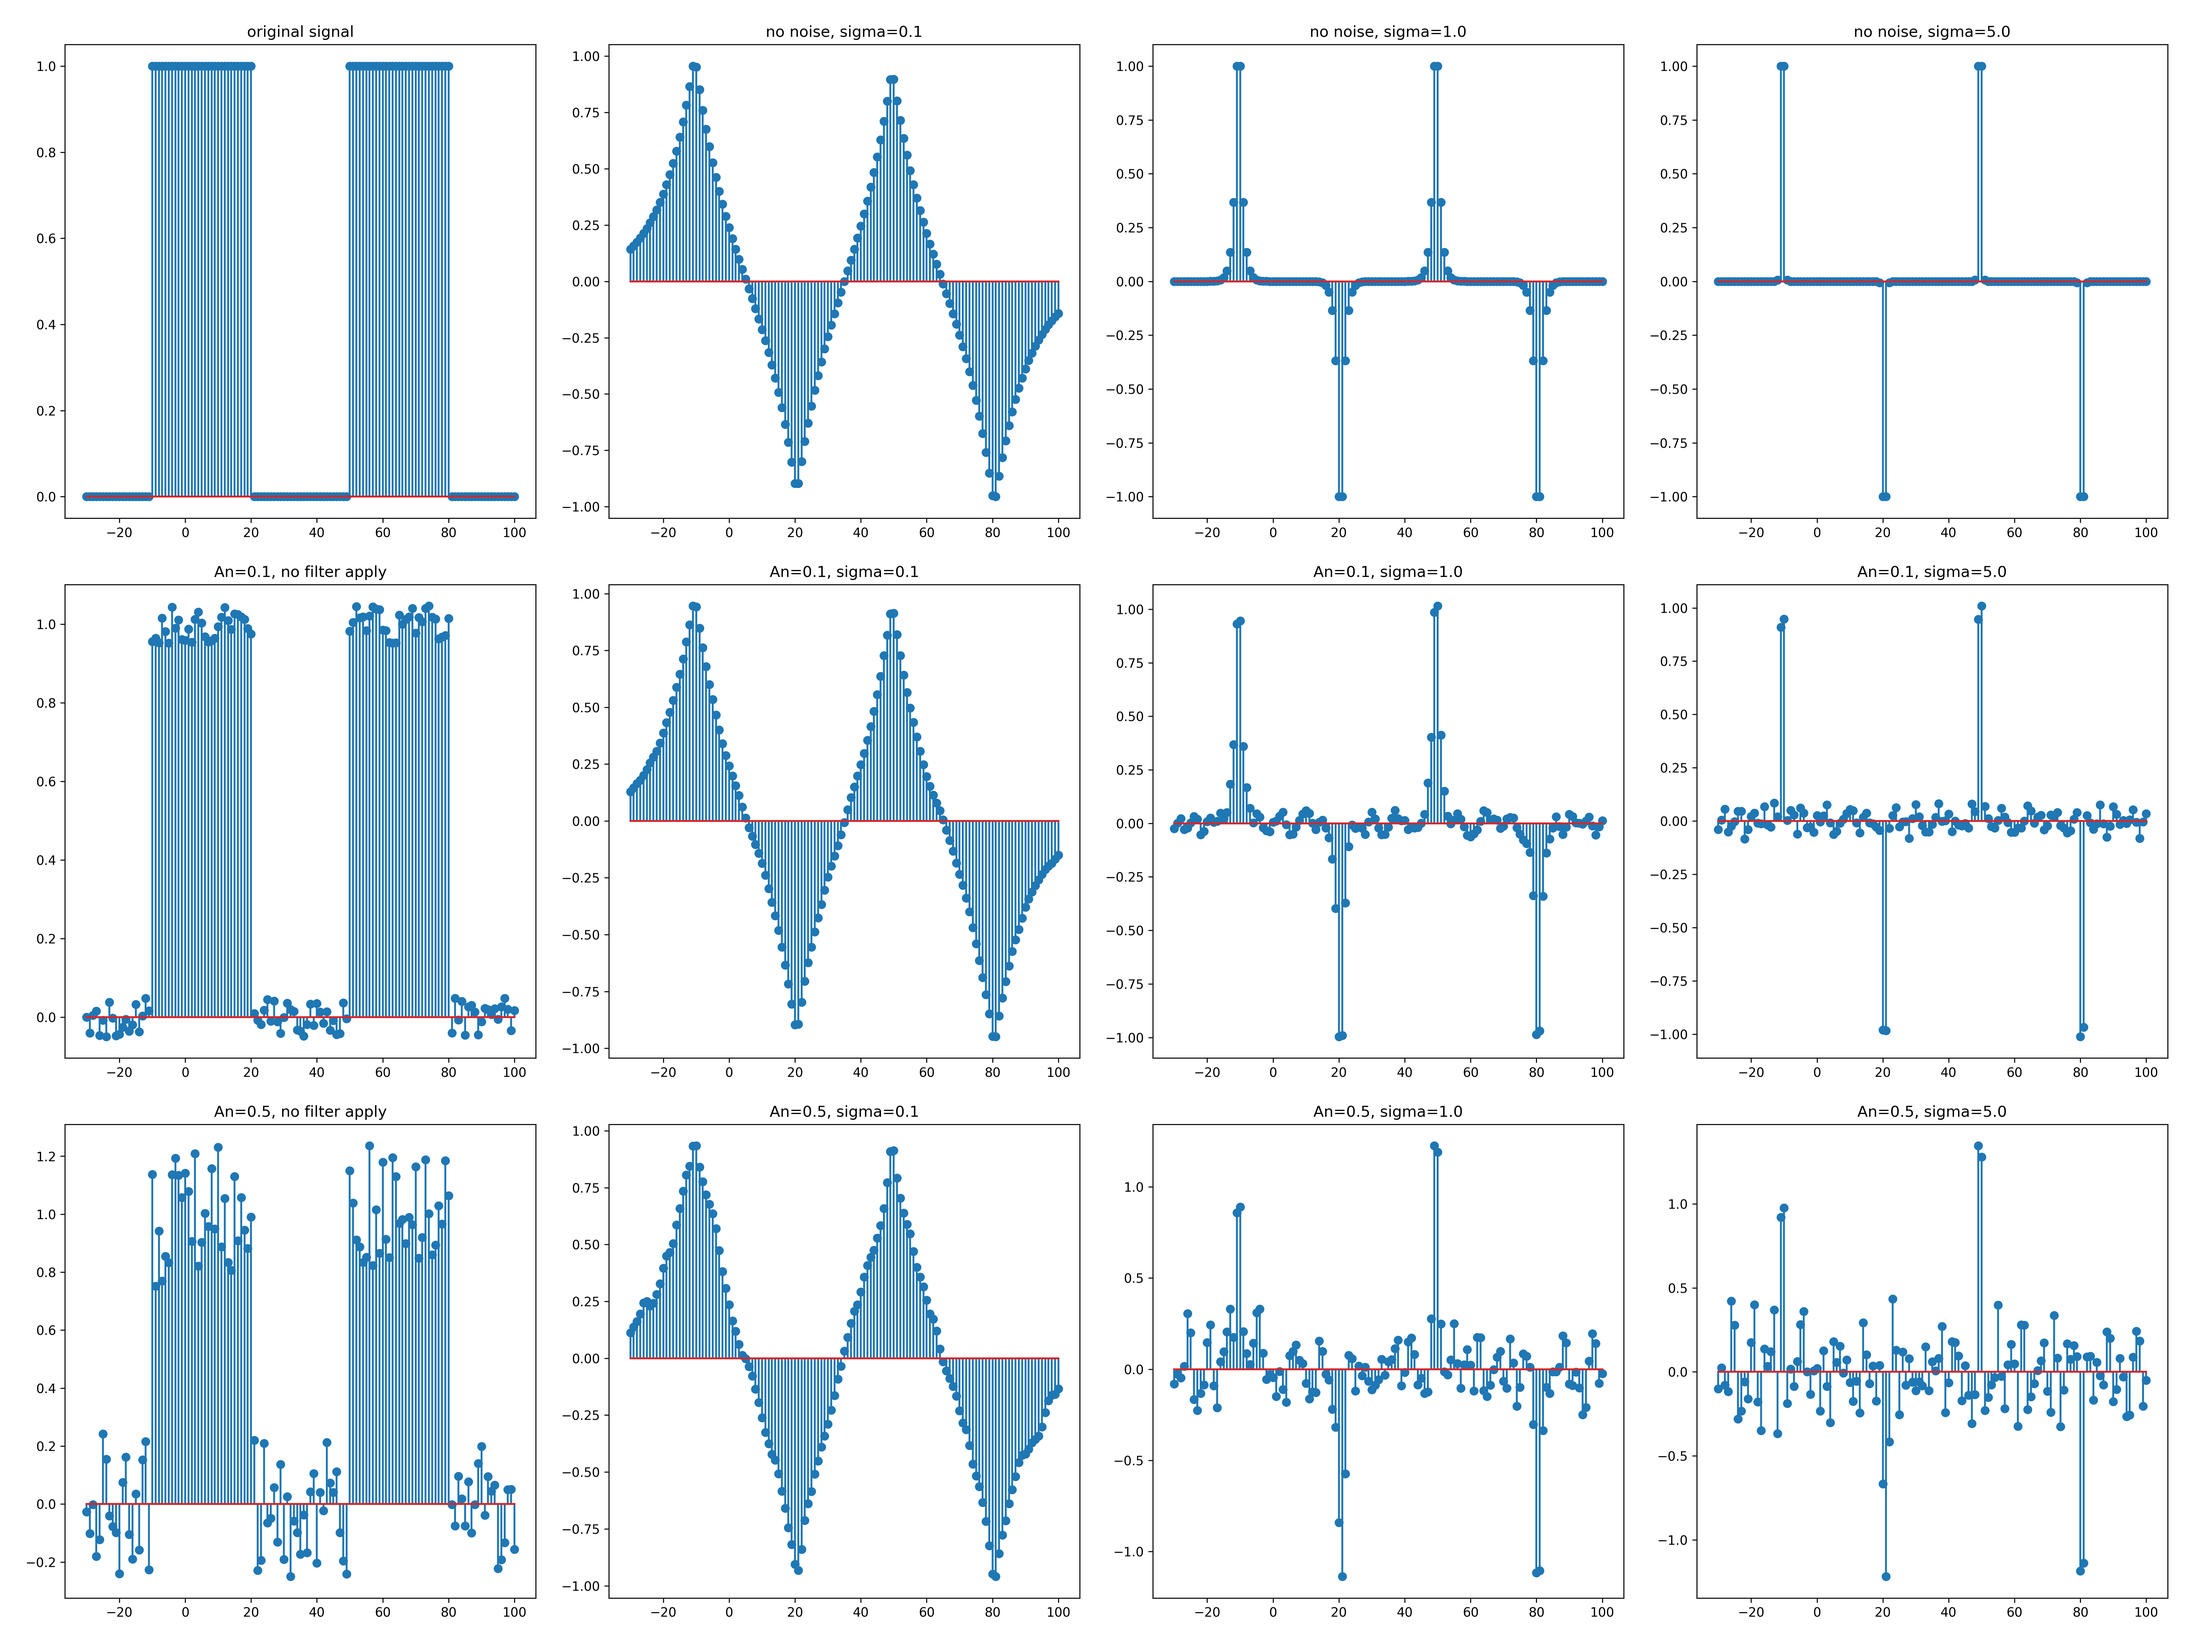
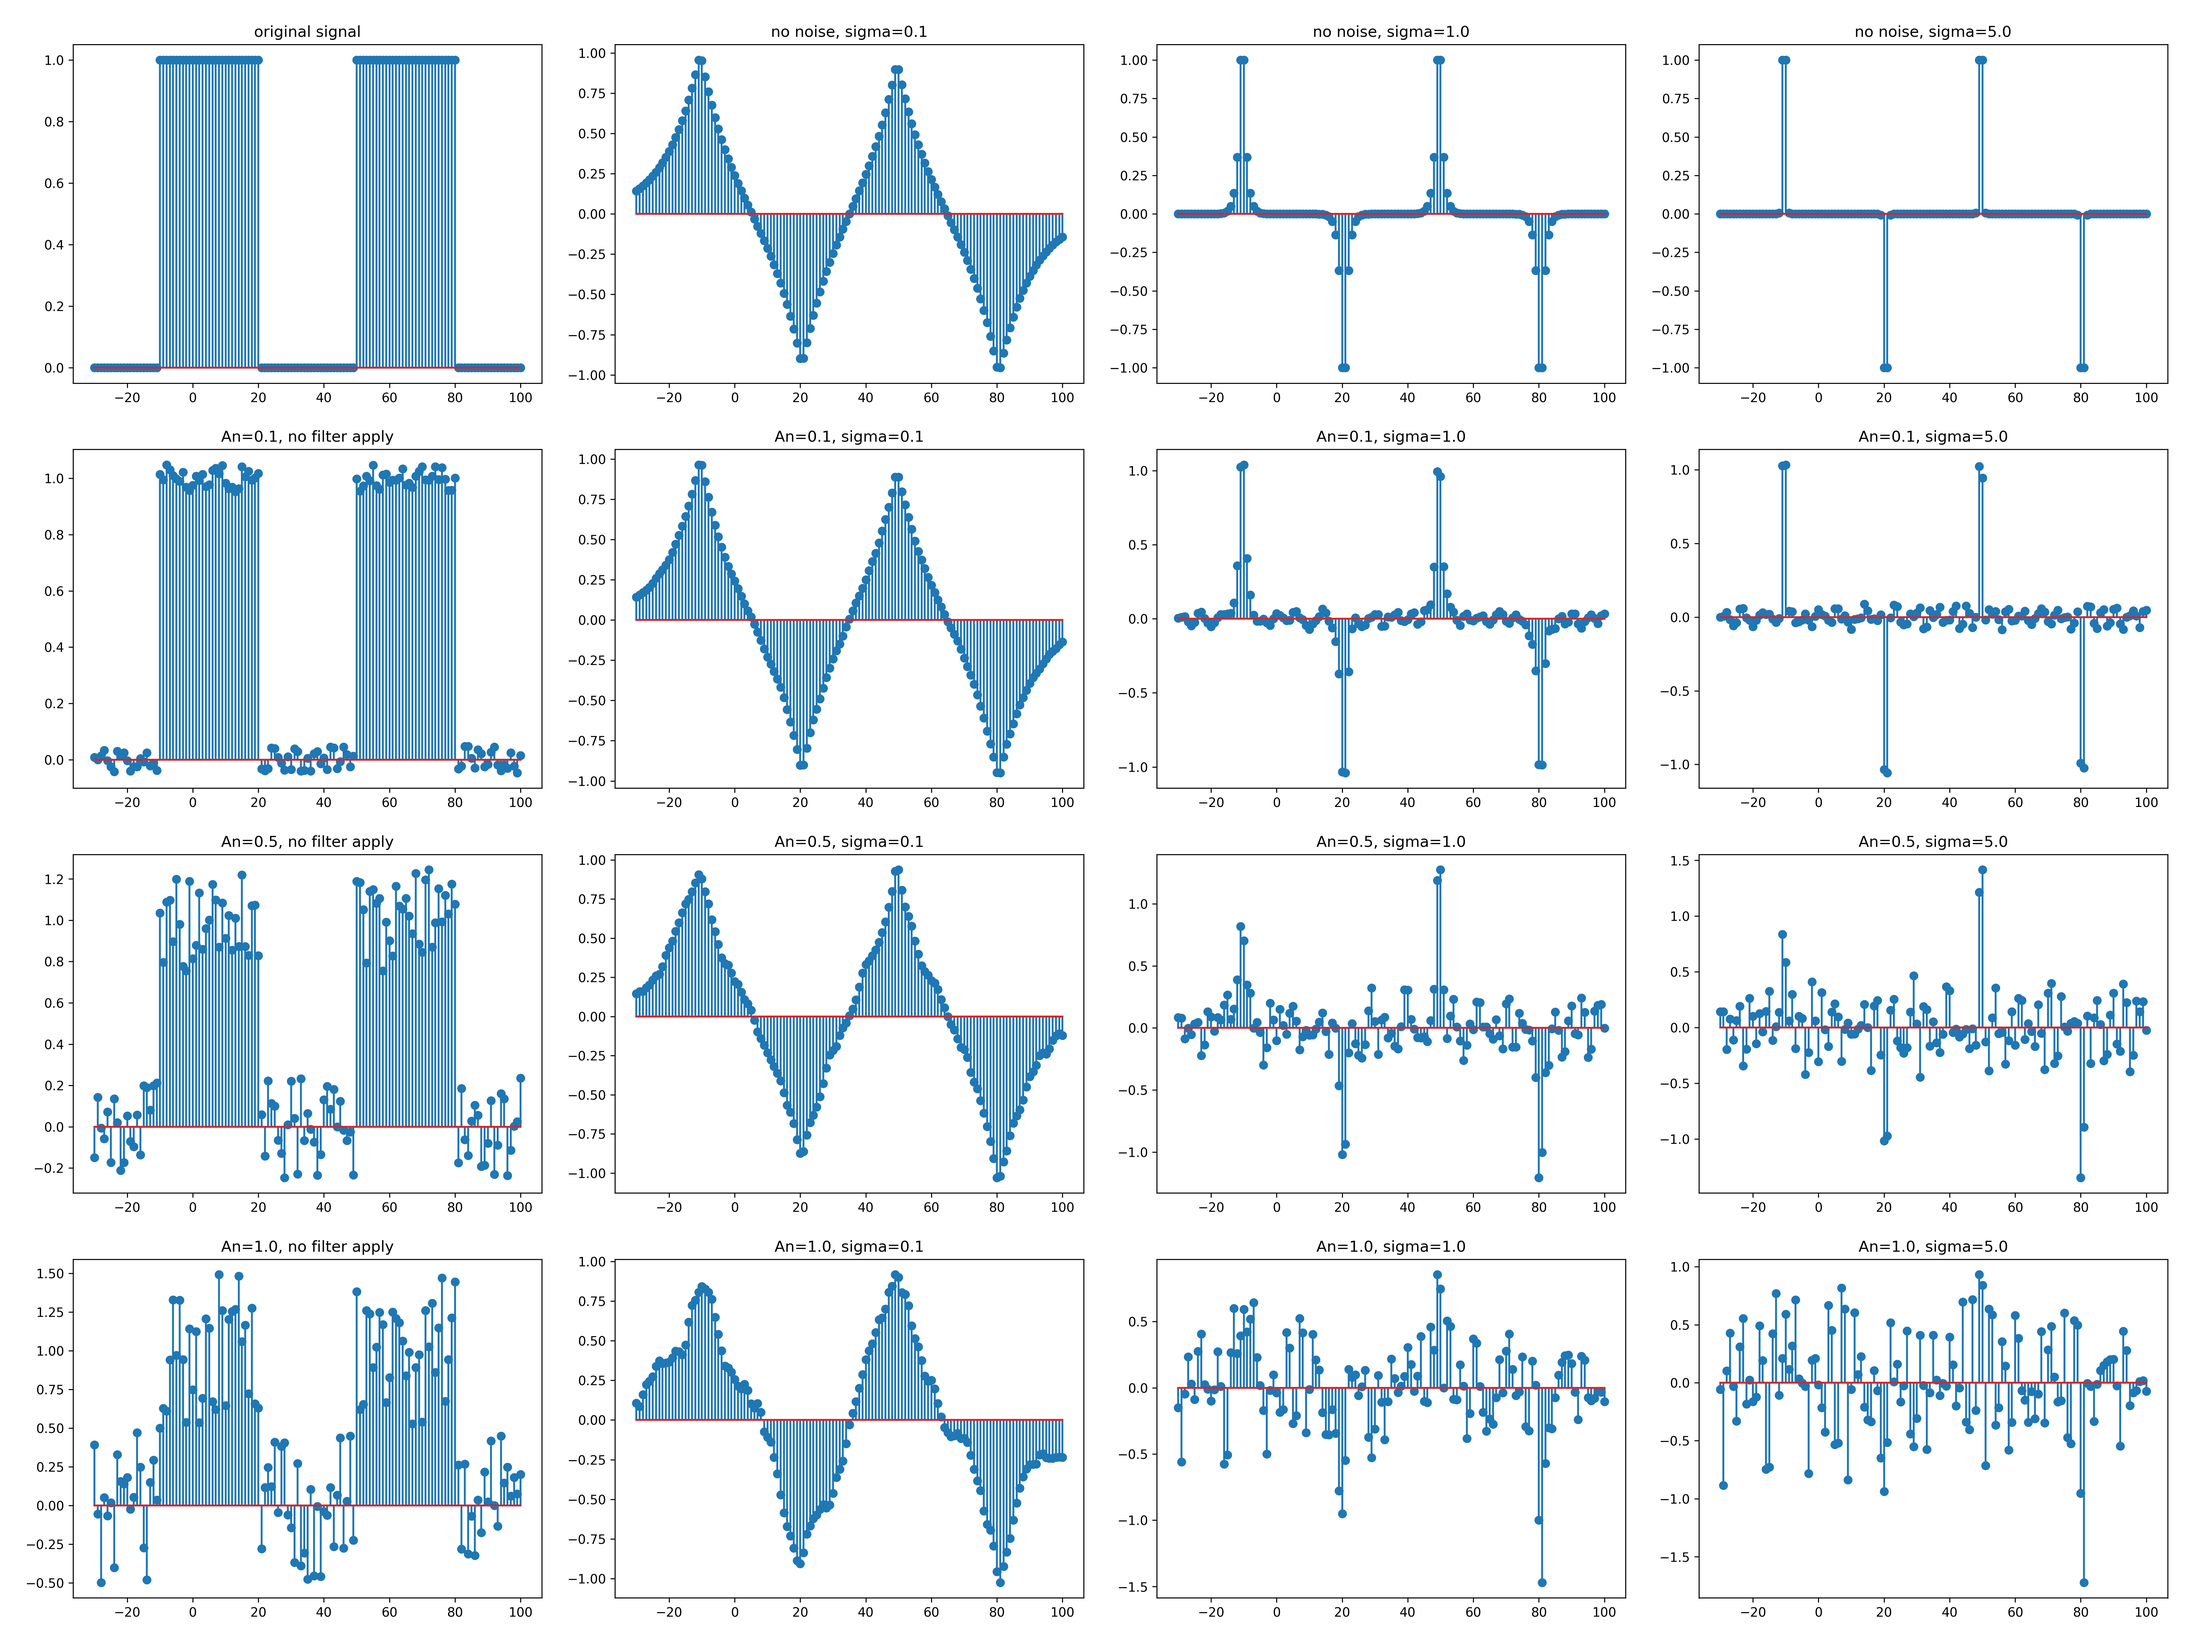
Tutorial 3: Exercise 3 - 4x4 Signal Edge Detection Parameter Sweep (Final)

diff --git a/exercise/DISP_2_3.py b/exercise/DISP_2_3.py
@@ -38,23 +38,23 @@ def C_function(x, sigma):
 x = signal_generation()
 
 # test with 2 different An and 2 different sigma
-An_list = [0.1, 0.5]
+An_list = [0.1, 0.5, 1.0]
 sigma_list = [0.1, 1.0, 5.0]
 n = np.arange(-30, 101)
 
 plt.figure(figsize=(24, 18), dpi = 300)
-plt.subplot(3,4,1)
+plt.subplot(4,4,1)
 plt.stem(n, x)
 plt.title("original signal")
-plt.subplot(3,4,2)
+plt.subplot(4,4,2)
 x2 = np.convolve(x, edge_filter(x, sigma_list[0]), mode='same')
 plt.stem(n, x2)
 plt.title("no noise, sigma="+str(sigma_list[0]))
-plt.subplot(3,4,3)
+plt.subplot(4,4,3)
 x3 = np.convolve(x, edge_filter(x, sigma_list[1]), mode='same')
 plt.stem(n, x3)
 plt.title("no noise, sigma="+str(sigma_list[1]))
-plt.subplot(3,4,4)
+plt.subplot(4,4,4)
 x4 = np.convolve(x, edge_filter(x, sigma_list[2]), mode='same')
 plt.stem(n, x4)
 plt.title("no noise, sigma="+str(sigma_list[2]))
@@ -63,14 +63,14 @@ for An in An_list:
     noise = noise_func(n, An)
     # signal with noise
     x1 = x + noise
-    plt.subplot(3,4,An_list.index(An)*4+5)
+    plt.subplot(4,4,An_list.index(An)*4+5)
     plt.stem(n, x1)
     plt.title("An="+str(An)+", no filter apply")
     for sigma in sigma_list:
         # signal with noise and filter
         x2 = np.convolve(x1, edge_filter(x, sigma), mode='same')
         # plot the signal with noise #index(An) and filter #index(sigma)
-        plt.subplot(3,4,An_list.index(An)*4+sigma_list.index(sigma)+1+5)
+        plt.subplot(4,4,An_list.index(An)*4+sigma_list.index(sigma)+1+5)
         plt.stem(n, x2)
         plt.title("An="+str(An)+", sigma="+str(sigma))
 

diff --git a/README.md b/README.md
@@ -106,7 +106,7 @@ Exploration of Gaussian-derivative filters for 1D signal boundary detection.
     - **Small $\sigma$ (1.0)**: Short impulse response (Slide 15). Sharp localization but sensitive to noise.
     - **Large $\sigma$ (5.0)**: Long impulse response (Slide 16). Strong noise suppression but lower spatial precision.
 - **Symmetry & Centering**: Implemented a zero-centered filter vector ($n \in [-L, L]$) to ensure edges are correctly aligned without time-lags.
-- **Normalization**: Applied normalization constants and grid layouts to compare results across varied noise levels ($An=0.1$ to $0.5$).
-- **Final Result**: Generated `edge_filter.png` (3x3 grid) demonstrating robust edge extraction under severe noise.
+- **Normalization**: Applied normalization constants and grid layouts to compare results across varied noise levels ($An=0.1, 0.5, 1.0$).
+- **Final Result**: Generated a high-resolution **4x4 grid** (`edge_filter.png`) demonstrating robust edge extraction even under extreme noise conditions ($An=1.0$).
 
 ---
